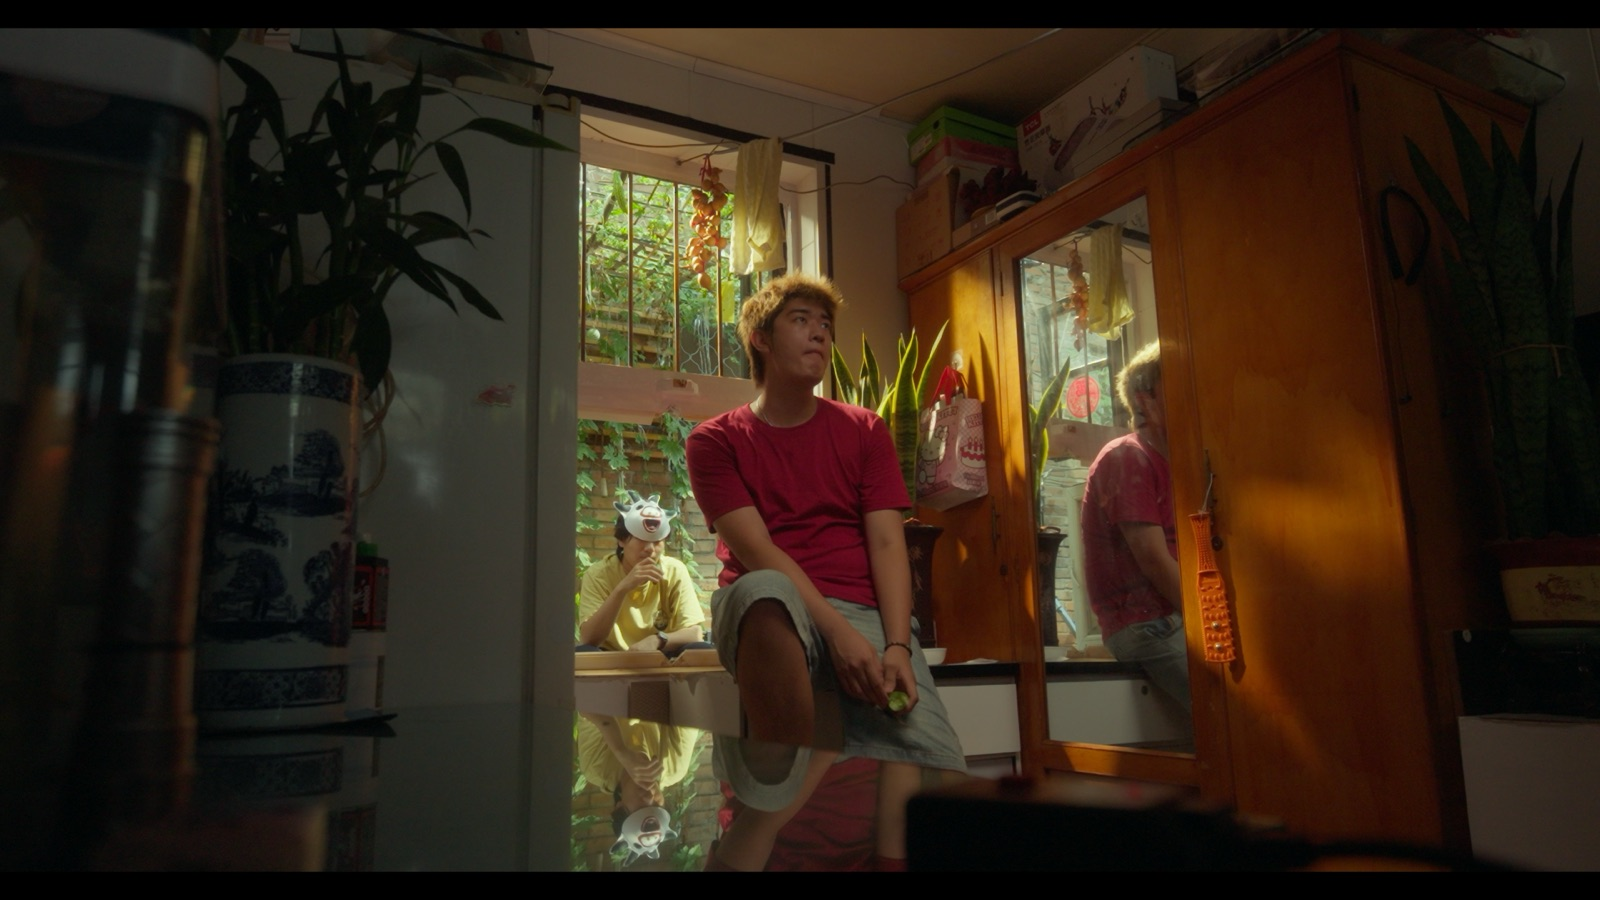
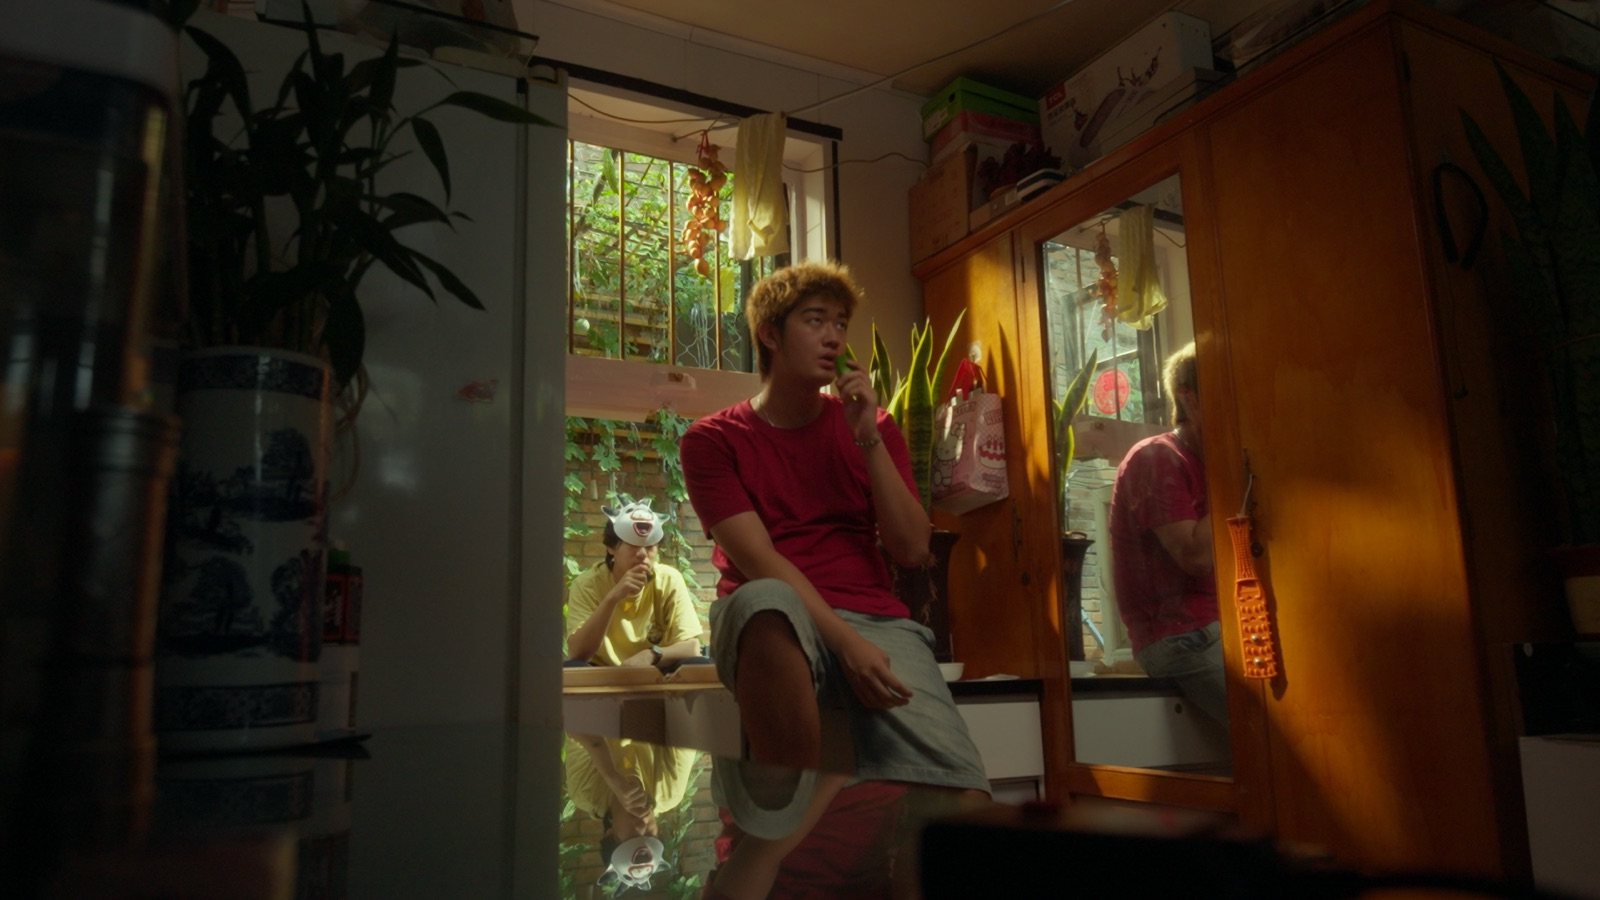
Add all 6 real CURED BY DEATH stills
Found them on the external drive (STILLS2 export folder in the
project's POST-PRODUCTION directory) rather than as uploaded chat
files -- pasting an image into the conversation doesn't save it to
disk here, so I need an actual file path to add it to the site.
Verified the still-1 already in place and all 6 against what was
shared, in order.

Poster is still a placeholder -- no dedicated poster image yet.

Bump asset cache-busting version to v=40.

diff --git a/assets/app.js b/assets/app.js
@@ -139,10 +139,13 @@ const FILM_PROJECTS = [
     description: "A street boy, a deaf boy, and a wise mother, all born and raised by the city of Beijing, are searching for their way.",
     festivals: ["Festival du Nouveau Cinéma 2025"],
     roles: ["Producer", "DP"],
-    // TODO: 5 more real stills to go — the rest are placeholders for now
     stills: [
       "assets/photos/films/cured-by-death/still-1.jpg",
-      ...Array(5).fill("assets/photos/placeholder.jpg"),
+      "assets/photos/films/cured-by-death/still-2.jpg",
+      "assets/photos/films/cured-by-death/still-3.jpg",
+      "assets/photos/films/cured-by-death/still-4.jpg",
+      "assets/photos/films/cured-by-death/still-5.jpg",
+      "assets/photos/films/cured-by-death/still-6.jpg",
     ],
   }),
   film("Undertow", "2025-05-02T00:00", {

diff --git a/index.html b/index.html
@@ -23,7 +23,7 @@
 <meta name="twitter:card" content="summary_large_image">
 <link rel="icon" type="image/png" href="assets/logo.png">
 <link rel="apple-touch-icon" href="assets/logo.png">
-<link rel="stylesheet" href="assets/style.css?v=39">
+<link rel="stylesheet" href="assets/style.css?v=40">
 </head>
 <body>
 
@@ -262,6 +262,6 @@
   <!-- context menu / quick look / get info render here -->
   <div id="overlay-layer"></div>
 
-  <script src="assets/app.js?v=39"></script>
+  <script src="assets/app.js?v=40"></script>
 </body>
 </html>
